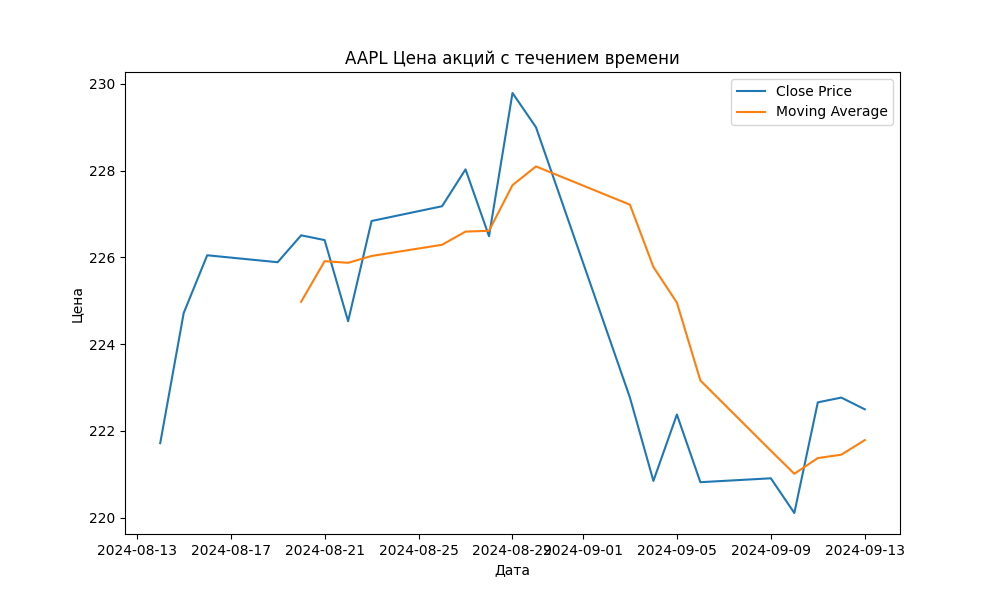
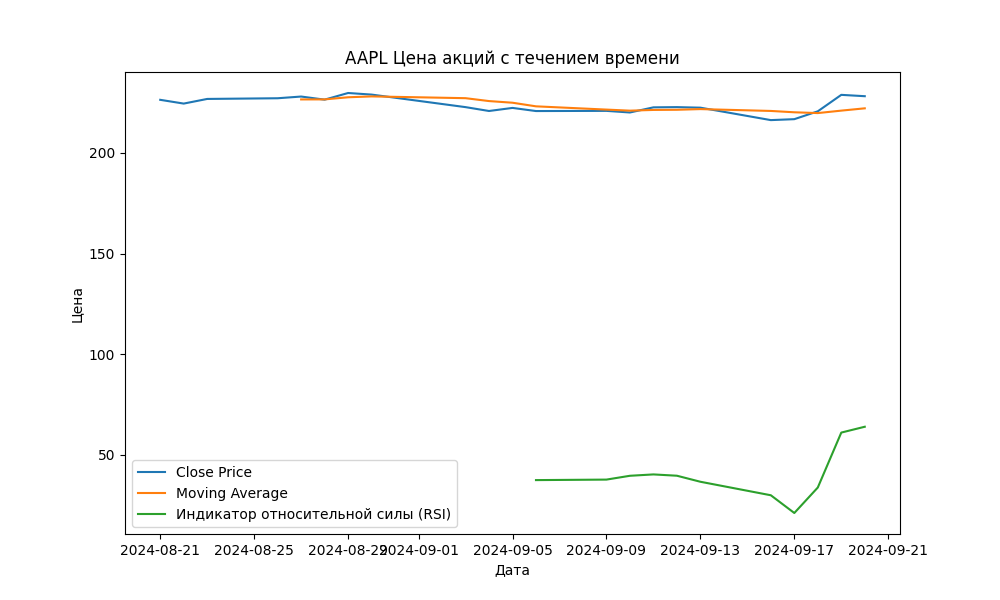
Задача №2. Реализовать функционал: Уведомление о сильных колебаниях
003

diff --git a/data_plotting.py b/data_plotting.py
@@ -1,11 +1,13 @@
 """Отвечает за визуализацию данных."""
 import matplotlib.pyplot as plt
+import numpy as np
 import pandas as pd
 
 
 def create_and_save_plot(data, ticker, period, filename=None):
     """
     Создаёт график, отображающий цены закрытия и скользящие средние.
+    + 4 задание добавлен график RSI.
     Предоставляет возможность сохранения графика в файл.
     Параметр filename опционален; если он не указан, имя файла генерируется автоматически.
     :param data:
@@ -21,6 +23,7 @@ def create_and_save_plot(data, ticker, period, filename=None):
             dates = data.index.to_numpy()
             plt.plot(dates, data['Close'].values, label='Close Price')
             plt.plot(dates, data['Moving_Average'].values, label='Moving Average')
+            plt.plot(dates, data['RSI'].values, label='Индикатор относительной силы (RSI)')
         else:
             print("Информация о дате отсутствует или не имеет распознаваемого формата.")
             return
@@ -29,6 +32,7 @@ def create_and_save_plot(data, ticker, period, filename=None):
             data['Date'] = pd.to_datetime(data['Date'])
         plt.plot(data['Date'], data['Close'], label='Close Price')
         plt.plot(data['Date'], data['Moving_Average'], label='Moving Average')
+        plt.plot(data['Date'], data['RSI'], label='Индикатор относительной силы (RSI)')
 
     plt.title(f"{ticker} Цена акций с течением времени")
     plt.xlabel("Дата")
@@ -41,11 +45,99 @@ def create_and_save_plot(data, ticker, period, filename=None):
     plt.savefig(filename)
     print(f"График сохранен как {filename}")
 
+
+def create_and_save_plot_003(data, ticker, period, filename=None):
+    """
+    Вариант с более красивым (или более понятным) графиком.
+    :param data:
+    :param ticker:
+    :param period:
+    :param filename:
+    :return:
+    """
+    plt.figure(figsize=(16, 9))
+
+    if 'Date' not in data:
+        if pd.api.types.is_datetime64_any_dtype(data.index):
+            dates = data.index.to_numpy()
+            plt.title(f"{ticker} Цена акций с течением времени")
+
+            plt.subplot(2,1,1)
+            plt.plot(dates, data['Close'].values, label='Close Price', color='red')
+            plt.plot(dates, data['Moving_Average'].values, label='Moving Average')
+            plt.xlabel("Дата")
+            plt.ylabel("Цена")
+            plt.legend()
+            plt.subplot(2,1,2)
+            plt.plot(dates, data['RSI'].values, label='RSI', color='orange')
+            plt.ylabel("Процент")
+        else:
+            print("Информация о дате отсутствует или не имеет распознаваемого формата.")
+            return
+    else:
+        if not pd.api.types.is_datetime64_any_dtype(data['Date']):
+            data['Date'] = pd.to_datetime(data['Date'])
+        plt.plot(data['Date'], data['Close'], label='Close Price')
+        plt.plot(data['Date'], data['Moving_Average'], label='Moving Average')
+        plt.plot(data['Date'], data['RSI'], label='Индикатор относительной силы (RSI)')
+
+    plt.legend()
+
+    if filename is None:
+        filename = f"{ticker}_{period}_stock_price_chart.png"
+
+    plt.savefig(filename)
+    print(f"График сохранен как {filename}")
+    plt.grid()
+    plt.show()
+
+
+def probe():
+    """Вариант из: https://www.codecamp.ru/blog/matplotlib-two-y-axes/ для примера"""
+    # create DataFrames
+    df1 = pd.DataFrame({'year': [1, 2, 3, 4, 5, 6, 7, 8, 9, 10],
+                        'sales': [14, 16, 19, 22, 24, 25, 24, 24, 27, 30]})
+    df2 = pd.DataFrame({'year': [1, 2, 3, 4, 5, 6, 7, 8, 9, 10],
+                        'leads': [4, 4, 4, 5, 4, 5, 7, 8, 5, 3]})
+    # define colors to use
+    col1 = 'steelblue'
+    col2 = 'red'
+
+    # define subplots
+    fig, ax = plt.subplots()
+
+    # add first line to plot
+    ax.plot(df1.year, df1.sales, color=col1)
+
+    # add x-axis label
+    ax.set_xlabel('Year', fontsize=14)
+
+    # add y-axis label
+    ax.set_ylabel('Sales', color=col1, fontsize=16)
+
+    # define second y-axis that shares x-axis with current plot
+    ax2 = ax.twinx()
+
+    # add second line to plot
+    ax2.plot(df2.year, df2.leads, color=col2)
+
+    # add second y-axis label
+    ax2.set_ylabel('Leads', color=col2, fontsize=16)
+
+    plt.savefig("stock_price_chart.png")
+
+
 # В модуле data_plotting.py добавлен код отрисовки графика показателя rsi
 def rsi(stock_data):
     pass
+
 
 # В модуль data_plotting (37) добавлена функция select_styles, которая отображает доступные стили графиков и
 # предлагает пользователю выбрать один из них.
 def select_styles():
     pass
+
+
+if __name__ == "__main__":
+    # main()
+    probe()

diff --git a/data_download.py b/data_download.py
@@ -1,4 +1,5 @@
 """Отвечает за загрузку данных об акциях."""
+import pandas as pd
 import yfinance as yf
 
 
@@ -65,6 +66,7 @@ def notify_if_strong_fluctuations(data, threshold=5):
     # print((max_price + min_price) / 2)
     # print(data['Close'].mean())
 
+
 def export_data_to_csv(data, filename):
     """
     Сохранить загруженные данные об акциях в CSV файл.
@@ -77,7 +79,29 @@ def export_data_to_csv(data, filename):
     except Exception as e:
         print(f'Не удалось экспортировать данные в CSV. Ошибка: {e}')
 
-# В модуль data_download.py добавлена функция (15) calculate_rsi(data):
-def calculate_rsi(data):
-    return str(data)
 
+# В модуль data_download.py добавлена функция (15) calculate_rsi(data):
+def calculate_rsi(data, period=12):
+    delta = data['Close'].diff()
+    gain = (delta.where(delta > 0, 0)).rolling(window=period).mean()
+    loss = (-delta.where(delta < 0, 0)).rolling(window=period).mean()
+    rs = gain / loss
+    rsi = 100 - (100 / (1 + rs))
+    return rsi
+
+
+if __name__ == "__main__":
+    # Пример использования
+    # Загрузите данные в DataFrame
+    # df = pd.read_csv('your_data.csv')  # Замените на ваш файл
+
+    # Пример данных (замените на свои)
+    data = {
+        'Close': [46, 47, 45, 48, 49, 50, 52, 51, 53, 54, 53, 52, 50, 51, 52]
+    }
+    df = pd.DataFrame(data)
+
+    # Рассчитайте RSI
+    df['RSI'] = calculate_rsi(df)
+
+    print(df)

diff --git a/main.py b/main.py
@@ -38,11 +38,11 @@ def main_02():
     print('Средняя цена закрытия акций за заданный период: ', dd.calculate_and_display_average_price(stock_data))
     # Уведомление о сильных колебаниях
 
-    threshold = float(input("Уведомление о сильных колебаниях. Введите порог колебания цен в процентах: "))
-    dd.notify_if_strong_fluctuations(stock_data, threshold)
+    # threshold = float(input("Уведомление о сильных колебаниях. Введите порог колебания цен в процентах: "))
+    # dd.notify_if_strong_fluctuations(stock_data, threshold)
 
     # Add moving average to the data
-    # stock_data = dd.add_moving_average(stock_data)
+    stock_data = dd.add_moving_average(stock_data)
 
     # Plot the data
     # dplt.create_and_save_plot(stock_data, ticker, period)
@@ -51,6 +51,12 @@ def main_02():
     filename = 'stock_data.csv'
     # filename = 'stock_data'
     dd.export_data_to_csv(stock_data, filename)
+    stock_data['RSI'] = dd.calculate_rsi(stock_data)
+    # print(dd.calculate_rsi(stock_data))
+    print(stock_data)
+    # Plot the data
+    dplt.create_and_save_plot(stock_data, ticker, period)
+
 
 if __name__ == "__main__":
     # main()
